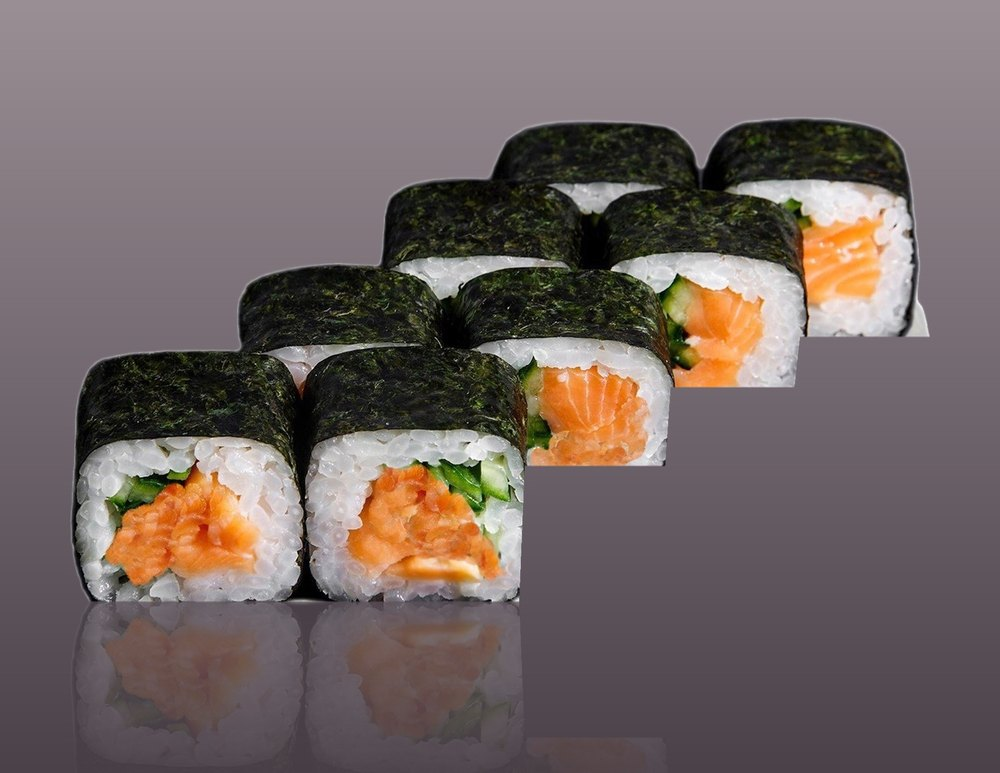
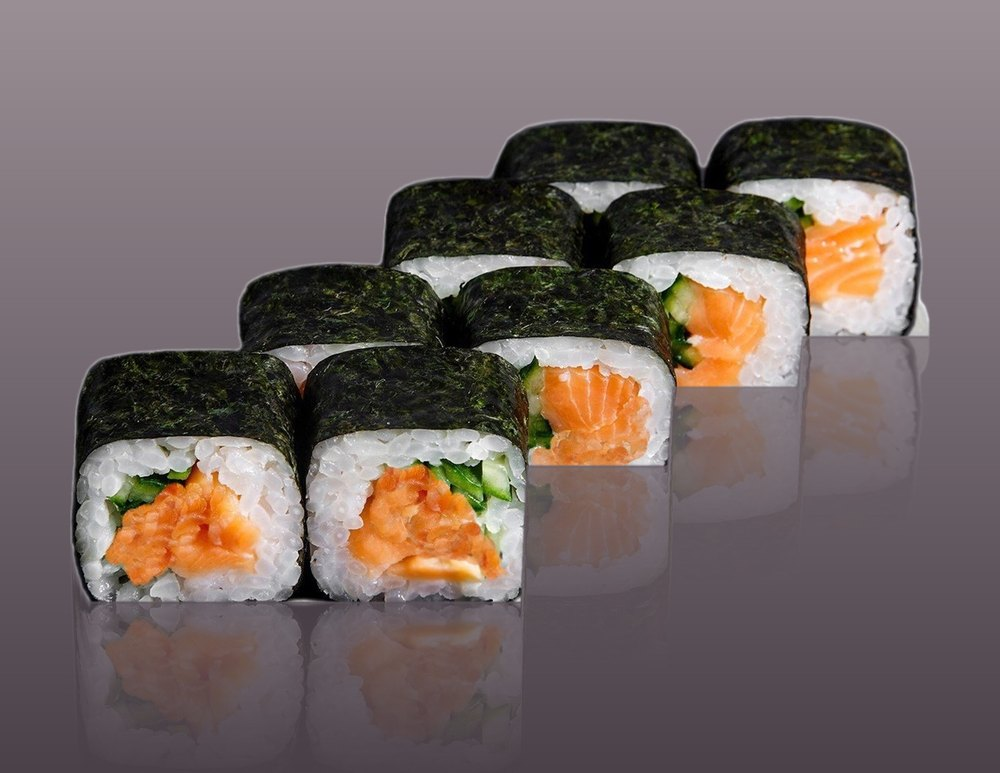
Спайси лосось и Кунсей: без ступенек, отражение под каждым роллом

diff --git a/studio.py b/studio.py
@@ -75,7 +75,9 @@ for i in ids:
     im = Image.open(f'orig/{i}.jpg').convert('RGB')
     a = remove(im, session=s, only_mask=True).convert('L')
     a = fill_holes(a)
-    if i in MIRROR: a = cut_line(a, MIRROR[i])
+    if i in MIRROR:
+        a = cut_line(a, MIRROR[i])
+        a = a.filter(ImageFilter.MinFilter(31)).filter(ImageFilter.MaxFilter(31)).filter(ImageFilter.GaussianBlur(1.2))  # скруглить углы, убрать полоски
     obj = im.copy(); obj.putalpha(a)
     bb = a.point(lambda v: 255 if v > 30 else 0).getbbox()
     if not bb: continue
@@ -84,10 +86,19 @@ for i in ids:
     obj = obj.resize((int(obj.width * k), int(obj.height * k)), Image.LANCZOS)
     x, y = (W - obj.width) // 2, int(H * 0.78) - obj.height
     out = bg()
-    refl = obj.transpose(Image.FLIP_TOP_BOTTOM)
-    fade = Image.linear_gradient('L').resize(refl.size).point(lambda v: int(max(0, 255 - v * 2.2) * 0.22))
-    refl.putalpha(ImageChops.multiply(refl.split()[3], fade))
-    out.paste(refl, (x, y + obj.height - 2), refl)
+    # отражение от низа каждого столбца (как на зеркальном столе)
+    A = np.asarray(obj).astype(np.float32); hh, ww = A.shape[:2]
+    al = A[:, :, 3] > 40
+    yb = np.where(al.any(0), hh - 1 - np.argmax(al[::-1], 0), -1)
+    L = int(hh * .45); R = np.zeros((hh + L, ww, 4), np.float32)
+    cols = np.arange(ww)
+    for j in range(L):
+        src = yb - j; ok = (yb >= 0) & (src >= 0)
+        c = cols[ok]; R[yb[ok] + 1 + j, c] = A[src[ok], c]
+        R[yb[ok] + 1 + j, c, 3] *= max(0.0, 1 - j / L) ** 1.6 * 0.24
+    R[:, :, 3] *= 1  # keep
+    refl = Image.fromarray(R.clip(0, 255).astype(np.uint8), 'RGBA')
+    out.paste(refl, (x, y), refl)
     out.paste(obj, (x, y), obj)
     out.save(f'orig_st/{i}.jpg', quality=92)
 print('done')
